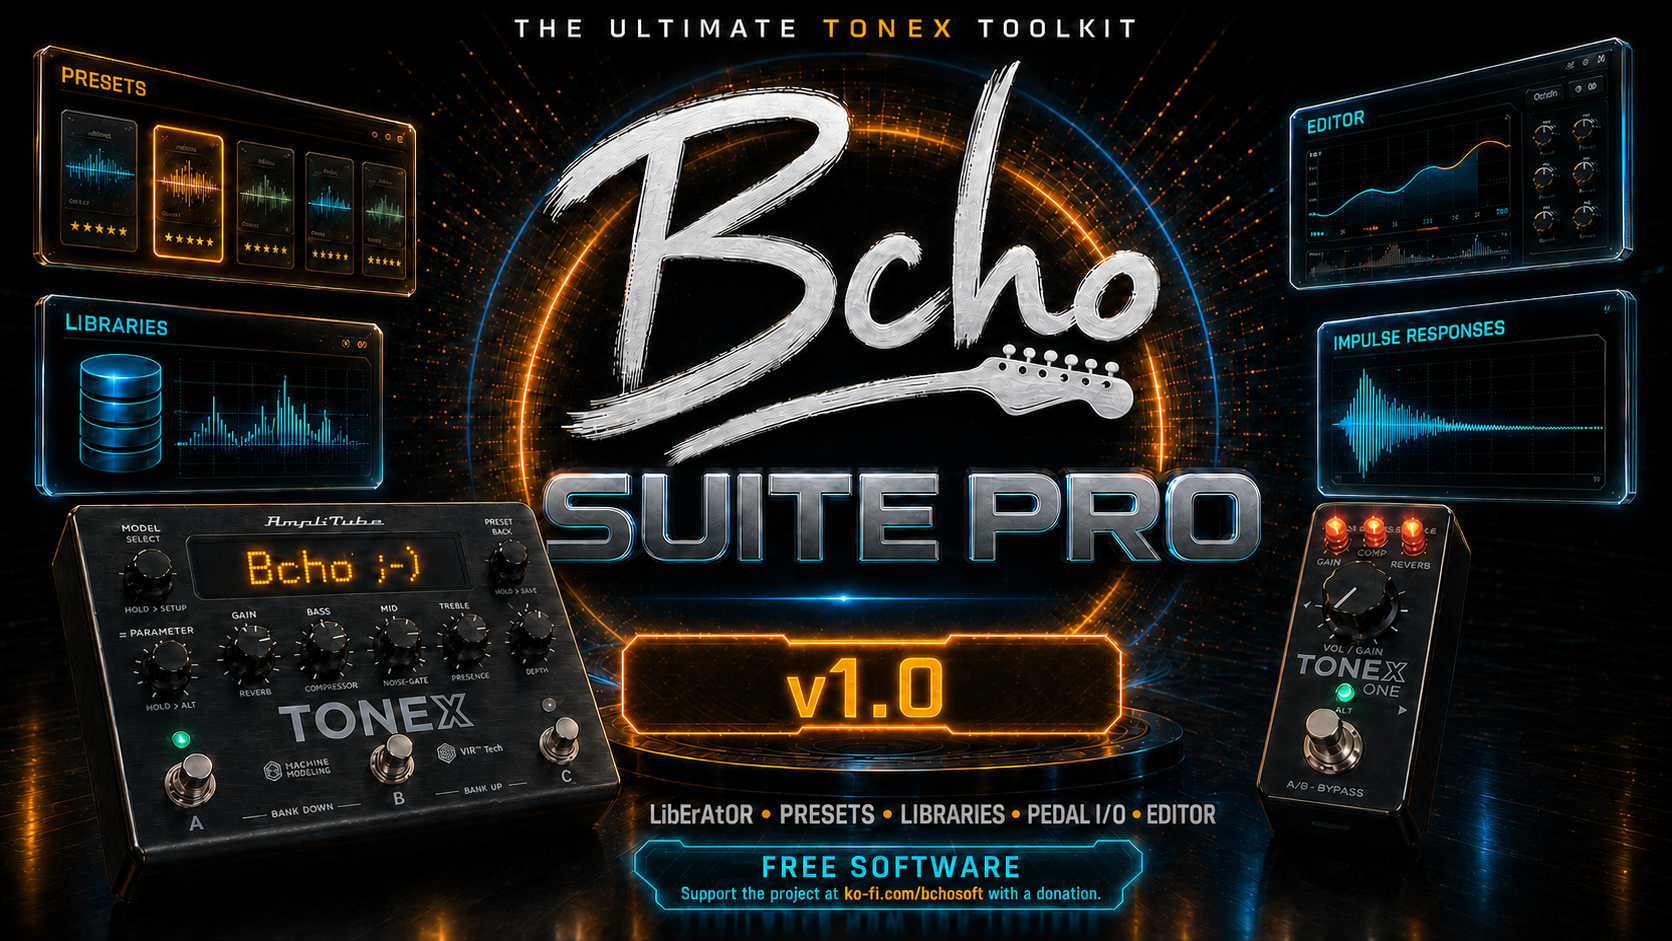
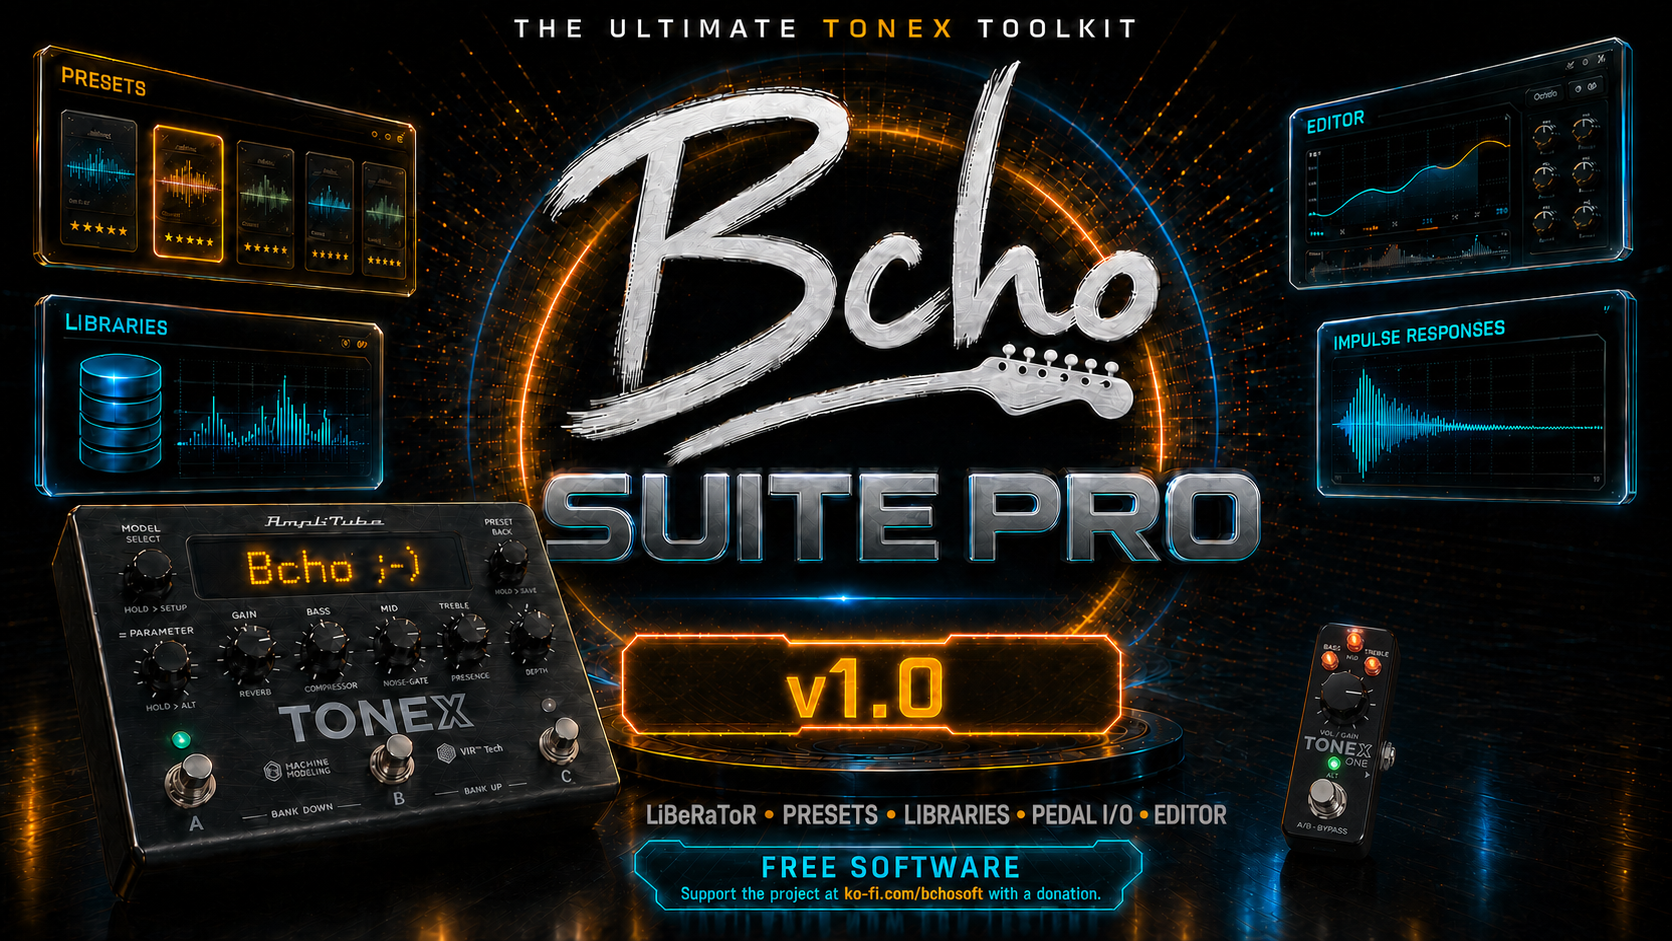
Update public application page

diff --git a/README.md b/README.md
@@ -1,0 +1,27 @@
+![Bcho Suite Pro](anuncio-v1.0.png)
+
+> ⚠️ **Use at your own responsibility.** BCho makes these tools available for you to use at your own responsibility. You should only use them on collections you are licensed to own.
+>
+> ⚠️ **Uso bajo tu responsabilidad.** BCho pone estas herramientas a tu disposición para que las utilices bajo tu propia responsabilidad. Deberías usarlas únicamente sobre colecciones de las que poseas la licencia.
+
+# Bcho Suite Pro
+
+## English
+
+**Bcho Suite Pro** is a free desktop application for musicians who work with IK Multimedia TONEX. It brings together a set of practical tools for handling presets, TONEX libraries and compatible TONEX pedals from one place.
+
+With the Suite you can manage and organize your TONEX content, export and prepare presets, create or merge libraries, import collections, make backups of compatible pedals and edit presets with a clear multilingual interface.
+
+The application includes a complete manual in several languages.
+
+Download the latest version for your operating system from [GitHub Releases](https://github.com/bchosoft/BSP/releases/latest).
+
+## Español
+
+**Bcho Suite Pro** es una aplicación gratuita de escritorio para músicos que trabajan con IK Multimedia TONEX. Reúne en un solo lugar varias herramientas prácticas para manejar presets, bibliotecas de TONEX y pedales TONEX compatibles.
+
+Con la Suite puedes gestionar y organizar tu contenido de TONEX, exportar y preparar presets, crear o fusionar bibliotecas, importar colecciones, hacer copias de seguridad de pedales compatibles y editar presets desde una interfaz clara y multilingüe.
+
+La aplicación incluye un manual completo en varios idiomas.
+
+Descarga la última versión para tu sistema operativo desde [GitHub Releases](https://github.com/bchosoft/BSP/releases/latest).